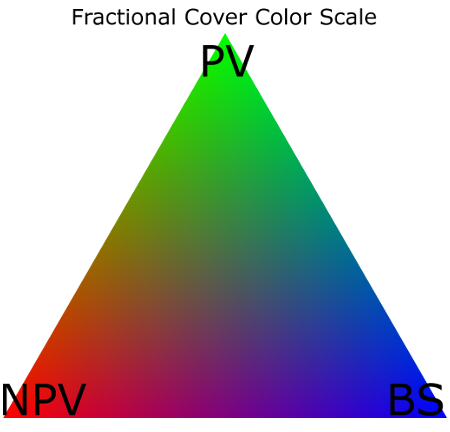
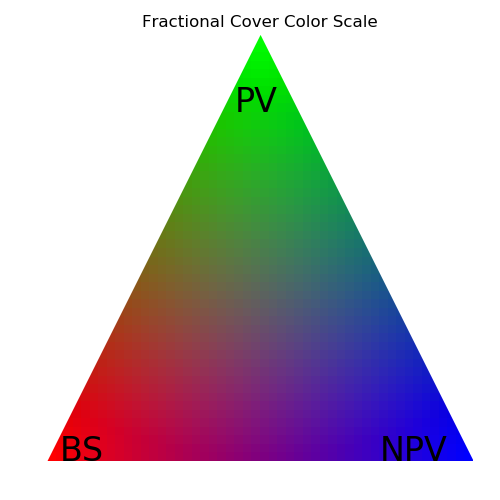
Modified the "color_scale" figure for the `fractional_cover` app to correctly show the mapping of RGB to BS, PV, and NPV (requested by Brian). Moved "color_scale" figure creation scripts to `utils` directories within the app directories `spectral_anomaly` and `fractional_cover`.

Changed region(s): [[0.0, 0.0, 0.9956, 0.9931]]

diff --git a/apps/fractional_cover/utils/create_color_scale_png.py b/apps/fractional_cover/utils/create_color_scale_png.py
@@ -1,0 +1,45 @@
+import numpy as np
+import matplotlib.pyplot as plt
+from matplotlib.path import Path
+from matplotlib.patches import PathPatch
+
+plt.figure(figsize=(5,5))
+
+# Determine the x and y values to use for sample points.
+num_edge_pts = 50 # Change this to change the resolution of the result.
+xy_rng = (0, 1)
+pt_sp = (xy_rng[1] - xy_rng[0]) / (num_edge_pts - 1)
+x = np.linspace(xy_rng[0], xy_rng[1] + 0.001, num_edge_pts)
+y = np.linspace(xy_rng[0], xy_rng[1] + 0.001, num_edge_pts)
+X, Y = np.meshgrid(x, y)
+min_x, max_x, min_y, max_y = np.min(x), np.max(x), np.min(y), np.max(y)
+median_x = np.median(x)
+prm_color_val_func = lambda x, y: 1 - np.sqrt((X-x)**2 + (Y-y)**2) / \
+                                      (xy_rng[1] - xy_rng[0])
+# The lower left of the triangle is red.
+z_red = prm_color_val_func(min_x, min_y)
+# The top of the triangle is green.
+z_green = prm_color_val_func(median_x, max_y)
+# The lower right of the triangle is blue.
+z_blue = prm_color_val_func(max_x, min_y)
+del x, y, X, Y
+Z = np.stack((z_red, z_green, z_blue), axis=-1)
+del z_red, z_green, z_blue
+# Form the perimeter of the triangle
+# (lower left, top, lower right, back to lower left).
+path = Path([[min_x, min_y], [median_x, max_y],
+             [max_x, min_y], [min_x, min_y]])
+patch = PathPatch(path, facecolor='none', alpha=0)
+plt.gca().add_patch(patch)
+
+im = plt.imshow(Z, interpolation='nearest',
+                origin='lower', extent=[*xy_rng, *xy_rng],
+                clip_path=patch)
+# Label the corners.
+plt.text(min_x+0.03, min_y, "BS", fontsize=24)
+plt.text(median_x-0.06, max_y-0.18, "PV", fontsize=24)
+plt.text(max_x-0.22, min_y, "NPV", fontsize=24)
+plt.axis('off')
+plt.title("Fractional Cover Color Scale")
+plt.tight_layout()
+plt.savefig('fractional_cover_color_scale.png')

diff --git a/apps/spectral_anomaly/utils/create_color_scale_png.py b/apps/spectral_anomaly/utils/create_color_scale_png.py
@@ -2,7 +2,7 @@ import matplotlib as mpl
 import matplotlib.pyplot as plt
 from matplotlib.gridspec import GridSpec
 
-from .tasks import spectral_indices_range_map, spectral_indices_name_map
+from apps.spectral_anomaly.tasks import spectral_indices_range_map, spectral_indices_name_map
 
 num_spec_inds = len(spectral_indices_name_map)
 
